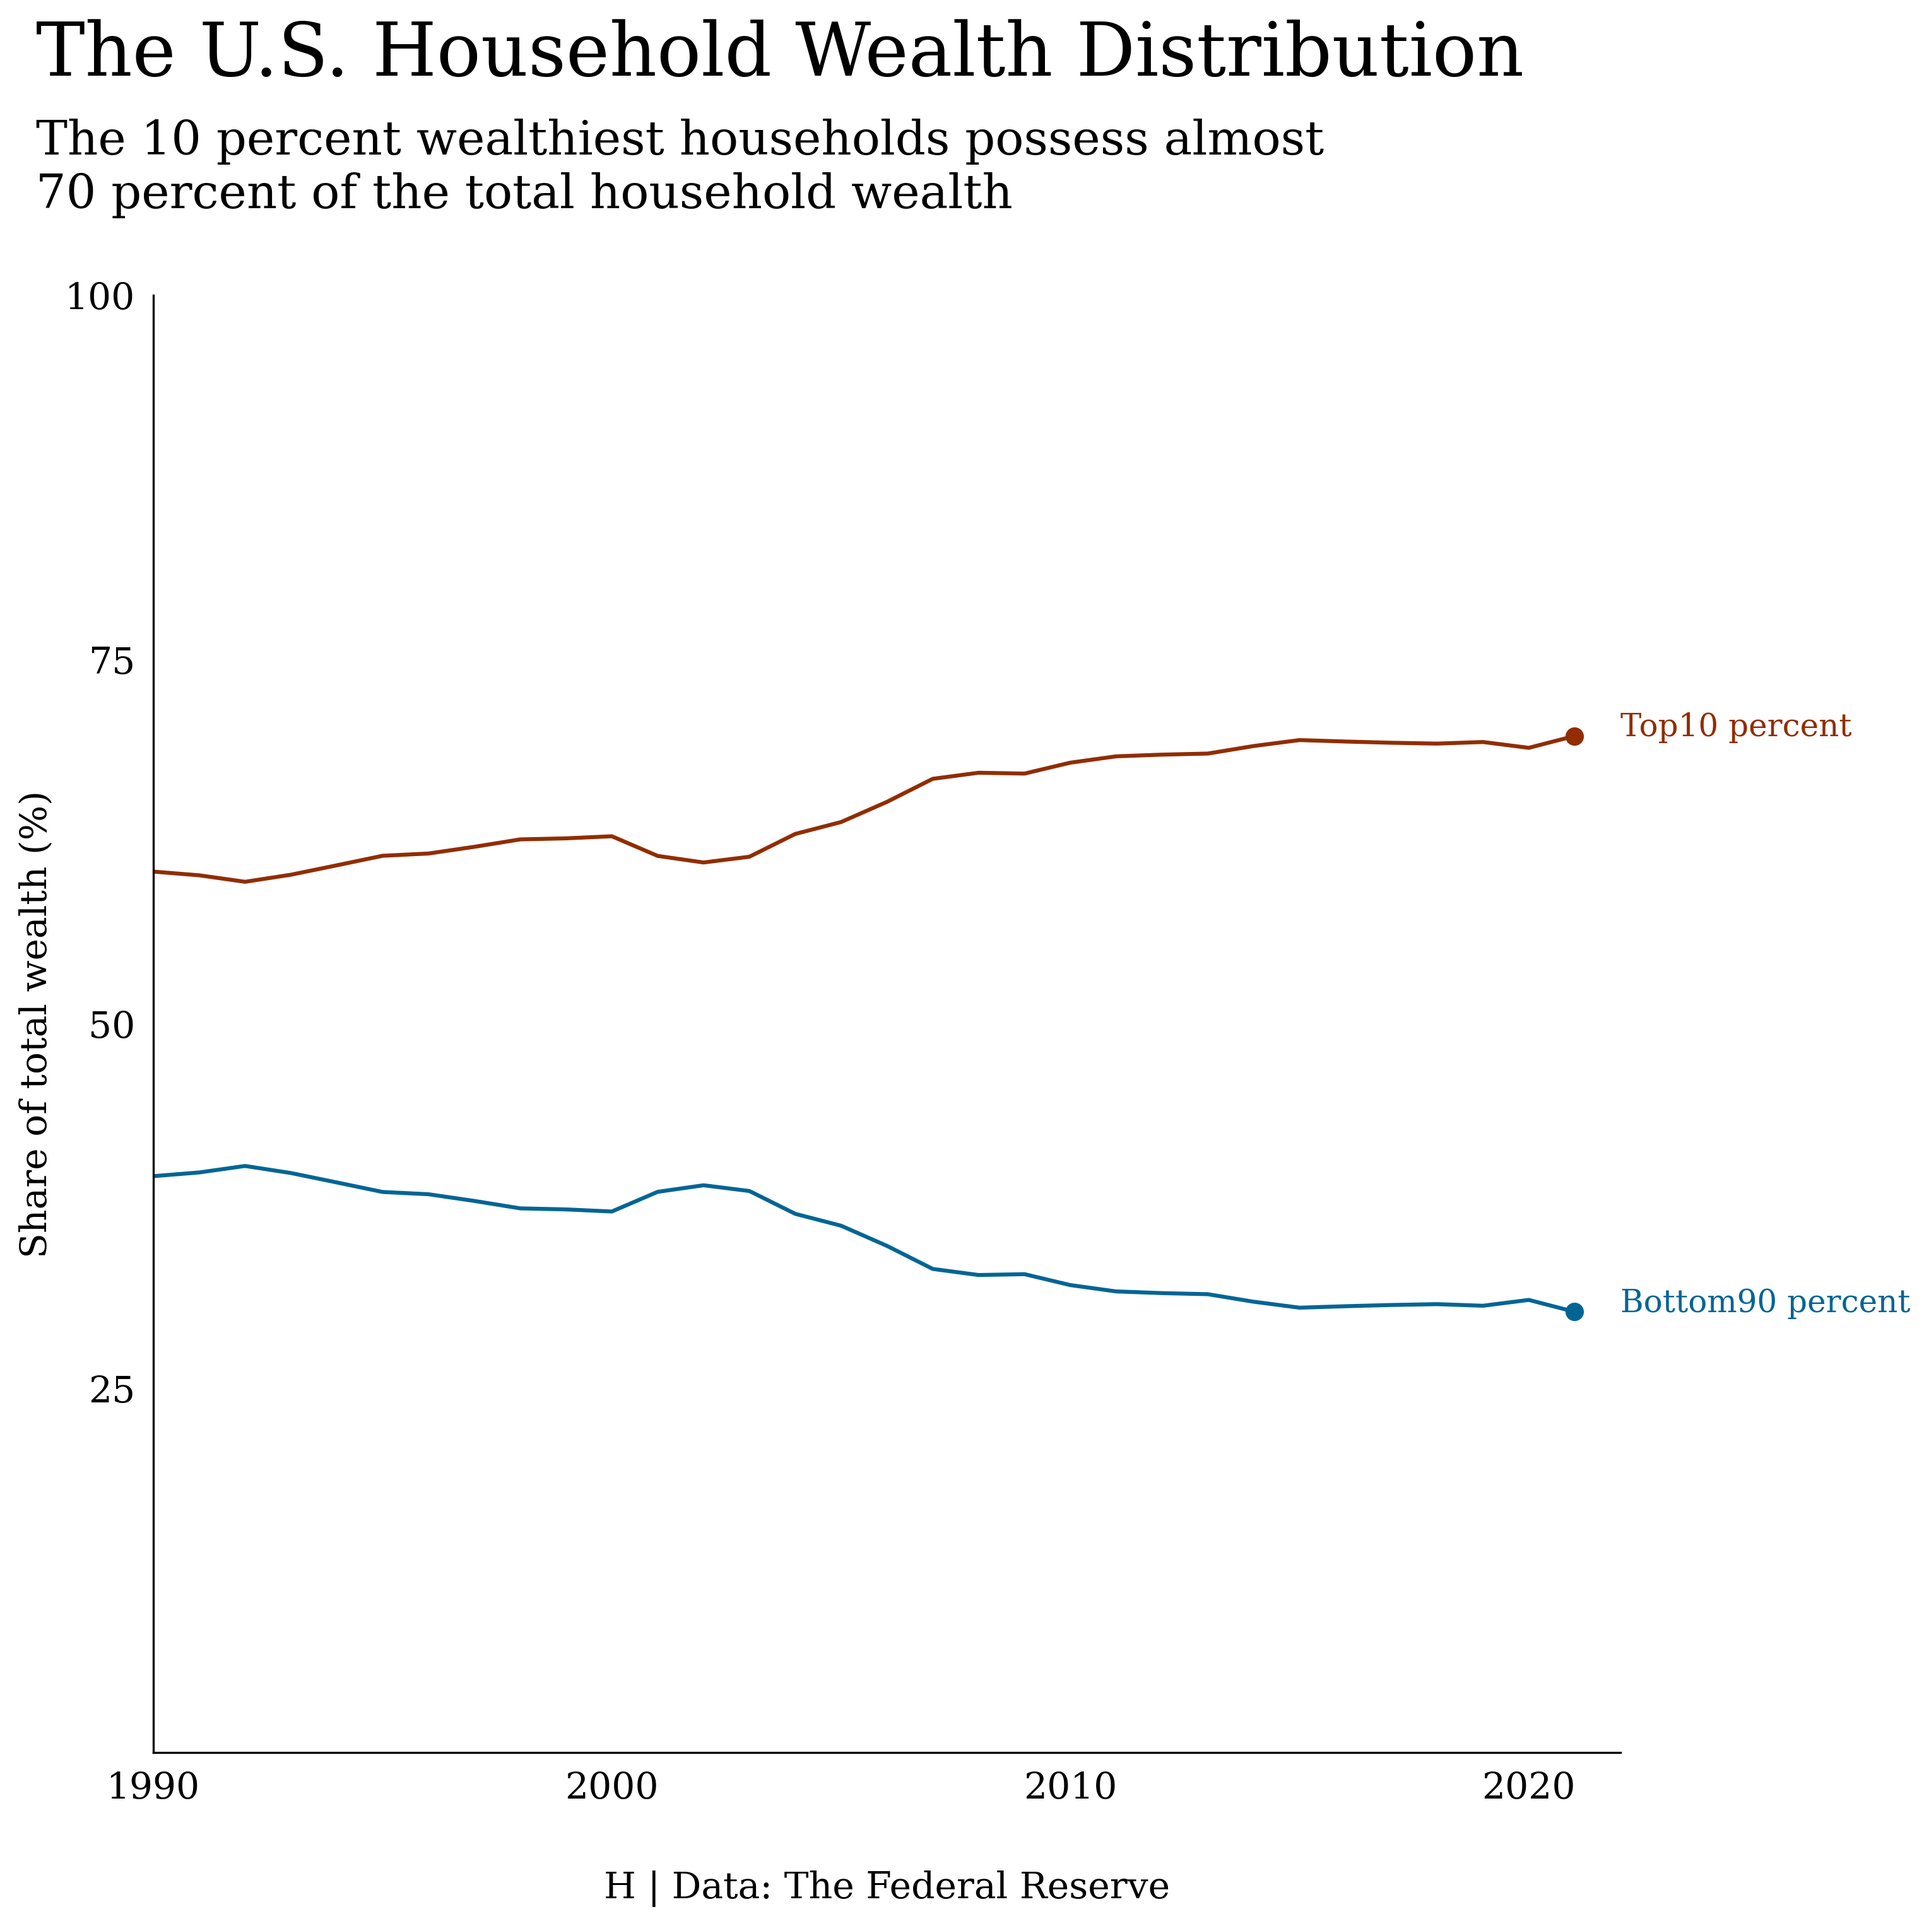
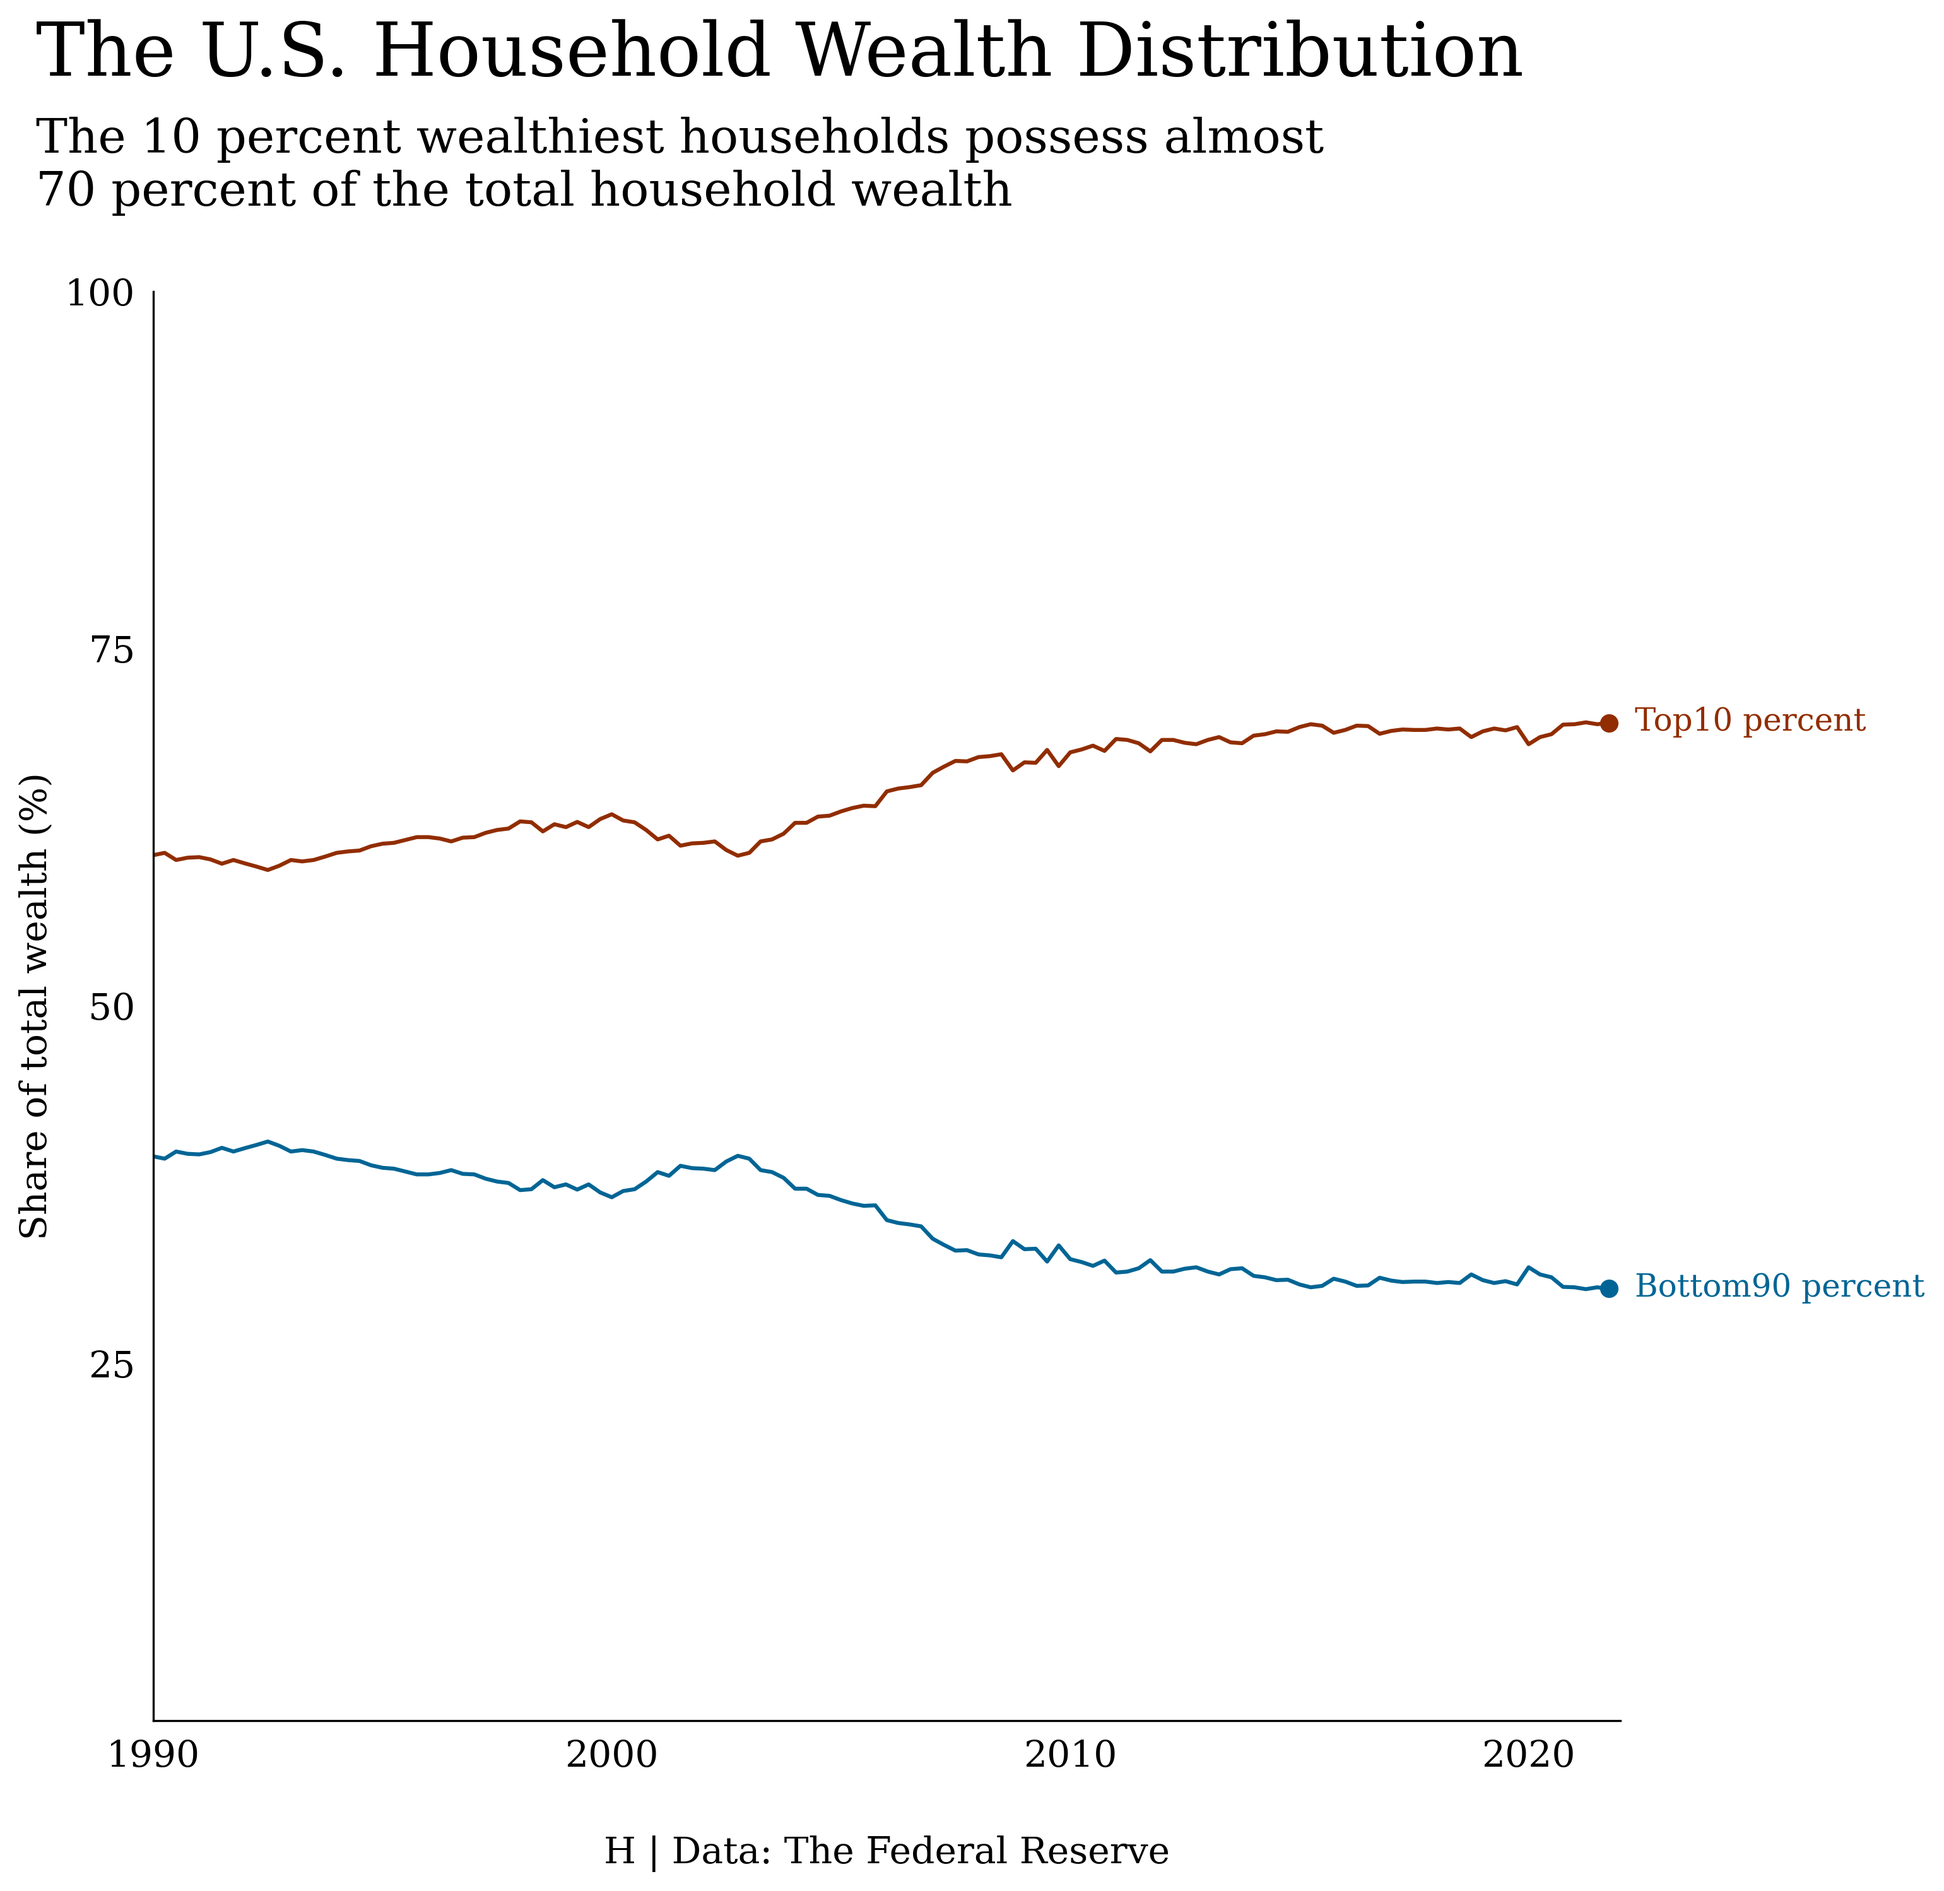
Add files via upload

diff --git a/wealth/wealth.py b/wealth/wealth.py
@@ -1,9 +1,12 @@
 import pandas as pd
 import matplotlib.pyplot as plt
+import matplotlib.dates as mdates
+import datetime
+
 
 df = pd.read_csv('dfa-networth-shares.csv')
-df['Year'] = df['Date'].apply(lambda x: int(x[:4]))
-df = df[['Net worth', 'Category', 'Year']].groupby(['Year', 'Category']).sum().unstack()
+df['Datex'] = pd.to_datetime(df['Date'].str.replace(':', '-'))
+df = df[['Net worth', 'Category', 'Datex']].groupby(['Datex', 'Category']).sum().unstack()
 df = df.apply(lambda x: x/x.sum() * 100, axis=1)
 df.loc[:, ('Net worth', 'Top10')] = df['Net worth']['Top1'] + df['Net worth']['Next9']
 df.loc[:, ('Net worth', 'Bottom90')] = df['Net worth']['Next40'] + df['Net worth']['Bottom50']
@@ -27,19 +30,23 @@ plt.yticks([25, 50, 75, 100], fontsize=14)
 plt.ylabel('Share of total wealth (%)', fontsize=14)
 
 ax.tick_params(axis='x', bottom=False)
-plt.xlim(1990, 2022)
-plt.xticks([1990, 2000, 2010, 2020], fontsize=14)
+plt.xlim(datetime.date(1990,1,1), datetime.date(2022,1,1))
+plt.xticks([datetime.date(i,1,1) for i in range(1990, 2021, 10)], fontsize=14)
+date_form = mdates.DateFormatter('%Y')
+ax.xaxis.set_major_formatter(date_form)
 
 ax.spines['top'].set_visible(False)
 ax.spines['right'].set_visible(False)
 
 for k, v in COLORS.items():
-    year = plt_df.loc[(plt_df['Category'] == k), 'Year']
+    year = plt_df.loc[(plt_df['Category'] == k), 'Datex']
     worth = plt_df.loc[(plt_df['Category'] == k), 'Net worth']
     ax.plot(year, worth, c=v)
     ax.plot(year.iloc[-1], worth.iloc[-1], 'o', c=v)
     ax.annotate(k + ' percent', 
-                xy=(year.iloc[-1]+1, worth.iloc[-1]),
+                xy=(year.iloc[-1], worth.iloc[-1]),
+                xytext=(10, -3), 
+                textcoords='offset points',
                 c=v, 
                 fontsize=12)
 
@@ -47,6 +54,7 @@ plt.title('The U.S. Household Wealth Distribution',
              fontsize=28, 
              loc='left', 
              x=-0.08, y=1.14)
+
 ax.text(s='The 10 percent wealthiest households possess almost \n70 percent of the total household wealth', 
         x=-.08, y=1.06, 
         fontsize=18, 
@@ -56,6 +64,7 @@ ax.text(s='H | Data: The Federal Reserve',
         x=0.5, y=-0.1,
         horizontalalignment='center',
         fontsize=14, 
-        transform=ax.transAxes, )
+        transform=ax.transAxes)
 
 fig.savefig('wealth', bbox_inches='tight')
+
